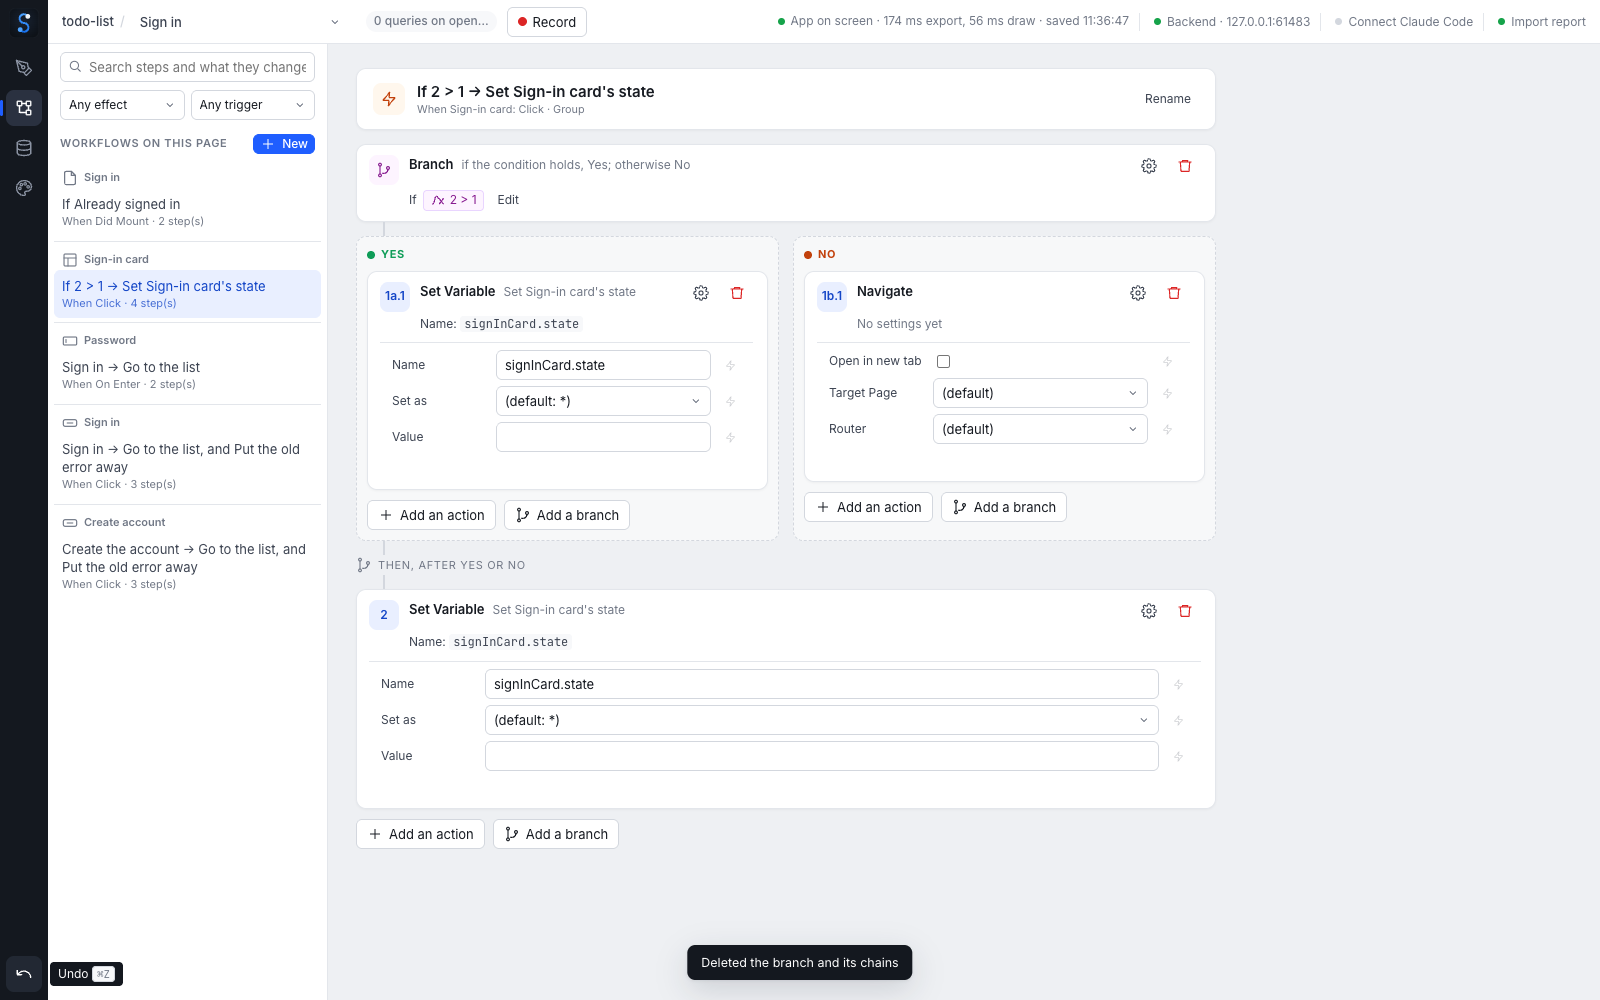
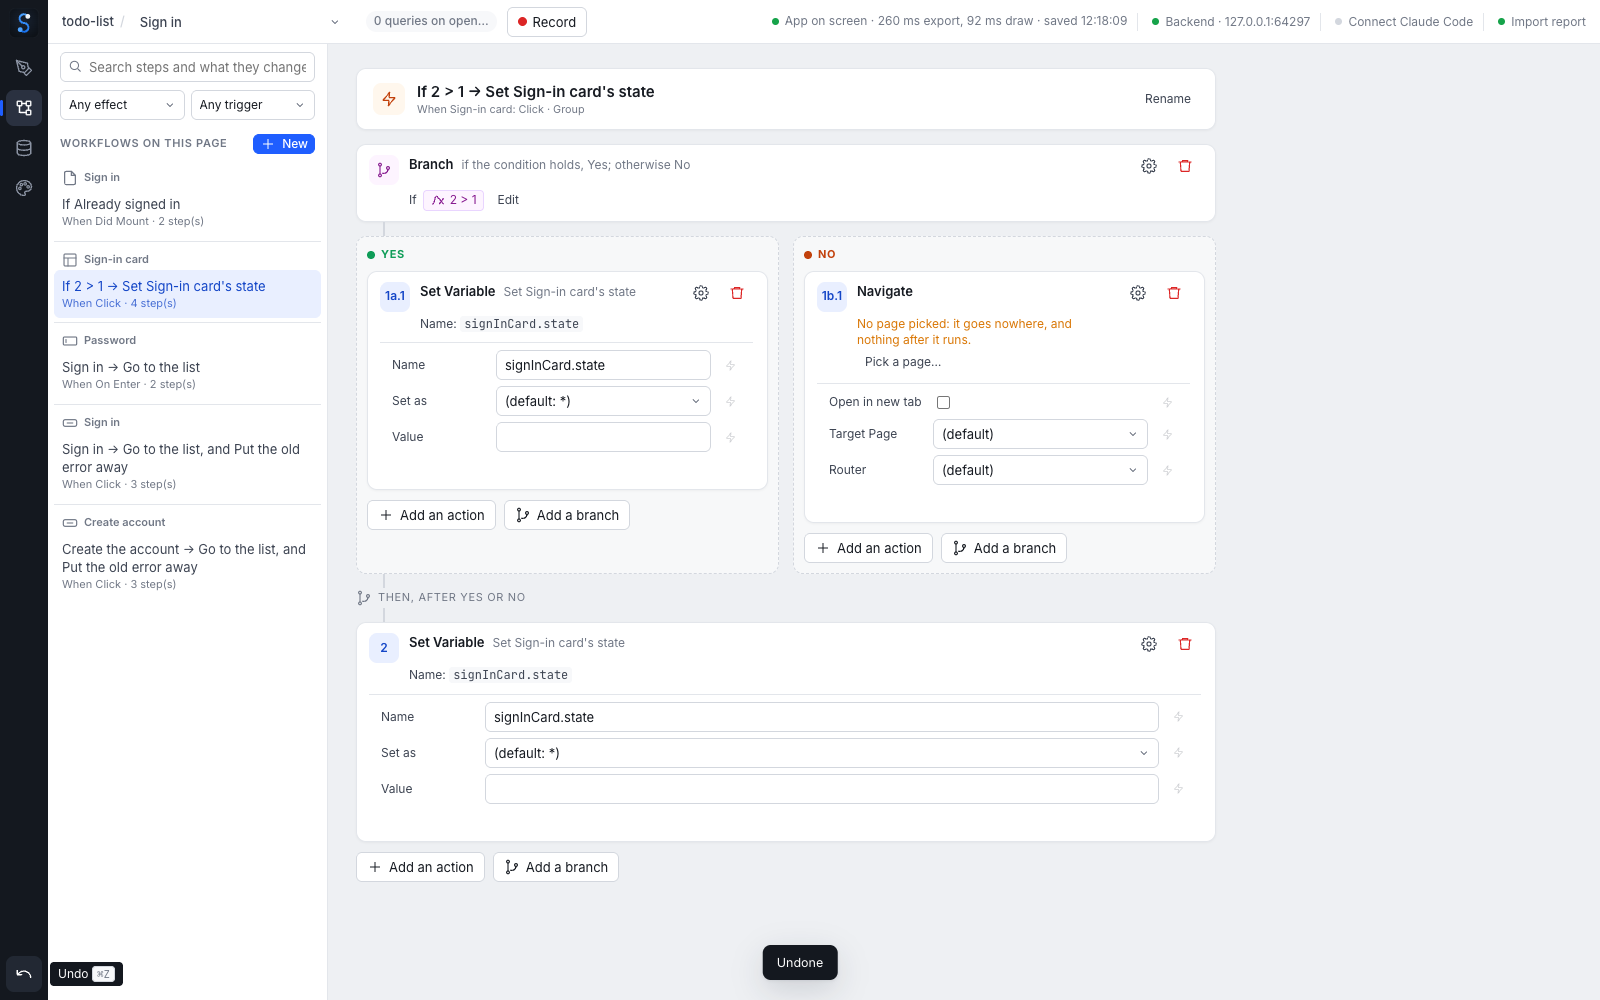
s21: a Go to page with no page says so on its step; Undo says Undone; R5's Toggle per copy and on a page
- The card: "No page picked: it goes nowhere, and nothing after it runs." with Pick a page…, which opens the
  step's settings; picking a page redraws the card. Undo toasts "Undone" instead of leaving the undone
  gesture's toast up. check:editor 191/191 (4 new).
- The importer: a Toggle stores the opposite of the element's shown holder (!shown), in a reusable per copy
  and on a page. The s20 limit "setting a copy's state to the value it already holds does nothing" was wrong
  (Set Variable writes with forceChange); now gated in the running app. check:import 94/94 (4 new); the s20
  importer fails the three Toggle checks.

diff --git a/editor/studio.html b/editor/studio.html
@@ -952,6 +952,8 @@ async function undo() {
   readGraph();
   rebuild();
   renderAll();
+  // what was undone may have said something ("Deleted the branch…"): left up, it reads as still true
+  toast('Undone');
 }
 $('undo').onclick = undo;
 
@@ -1015,8 +1017,9 @@ function edits(componentKey, list, { rebuildApp = true, redraw } = {}) {
   persist();
   if (componentKey === pageKey) readGraph();
   if (rebuildApp) rebuild();
-  // an edit that changes which fields or steps exist redraws the panel; typing into a field does not (it would lose the caret)
-  const structural = redraw ?? list.some((e) => !['set_parameter', 'rename', 'move'].includes(e.edit) || (e.edit === 'set_parameter' && e.name === 'collectionName'));
+  // an edit that changes which fields or steps exist redraws the panel; typing into a field does not (it would lose the caret).
+  // A Go to page's page is picked from a list, and its step says when there is none
+  const structural = redraw ?? list.some((e) => !['set_parameter', 'rename', 'move'].includes(e.edit) || (e.edit === 'set_parameter' && ['collectionName', 'target'].includes(e.name)));
   if (structural) setTimeout(() => { if (tab === 'workflow') renderWorkflow(); else if (tab === 'design') { renderPageData(); renderTree(); renderProps(); } }, 0);
   return ids;
 }
@@ -3501,6 +3504,9 @@ function stepCard(s, n) {
   const ports = editablePorts(node, { wireOnly: true }).filter((p) => !['x', 'y'].includes(p.name) && !(isCond && p.name === 'condition'));
   if (!ports.length) settings.append(h('div', { class: 'hint' }, 'This action has no settings to type; its inputs come from values.'));
   for (const p of ports) settings.append(fieldFor(node, p, params[p.name], wiredIn[p.name]));
+  const openSettings = () => { settings.style.display = ''; openSteps.add(s.id); };
+  // a Go to page with no page never arrives, and RouterNavigate says Done only on arriving: nothing after it runs
+  if (node.type === 'RouterNavigate' && !params.target && !wiredIn.target) lines.unshift(h('span', { class: 'nopage', style: 'color:var(--warn);flex-basis:100%;display:flex;flex-wrap:wrap;gap:2px 8px;align-items:center' }, 'No page picked: it goes nowhere, and nothing after it runs.', h('button', { class: 'quiet tiny', style: 'white-space:nowrap', onclick: openSettings }, 'Pick a page…')));
   const card = h('div', { class: `step${isCond ? ' cond' : ''}` },
     h('div', { class: 'num' }, isCond ? icon('branch') : n),
     h('h3', {}, isCond ? 'Branch' : typeName(node.type), h('span', { title: isCond ? 'If the condition holds, Yes runs; otherwise No' : null }, isCond ? (node.label || 'if the condition holds, Yes; otherwise No') : node.label || '')),

diff --git a/docs/SCOPE.md b/docs/SCOPE.md
@@ -1508,7 +1508,15 @@ click into the shared step; Undo restores it. Mutant (no rejoin read on the card
 fail; making it and running it pass either way, the wires being the same. `check:app` 46/46, `check:data` 80/80,
 `check:timeline` 46/46. [look/s2-workflow-rejoin.png](look/s2-workflow-rejoin.png).
 Found on the way: a Go to page with no target never says Done in the app (RouterNavigate settles only on arriving),
-so a step after it does not run; the card does not say so. **Not built:** lanes side by side (STU-024) that reach one
+so a step after it does not run; the card does not say so. **Said on the card (s21):** a Go to page with no page,
+typed or wired, says on its step *"No page picked: it goes nowhere, and nothing after it runs."* with *Pick a page…*,
+which opens its settings; picking one redraws the card (a page is picked from a list, so the redraw takes no caret) and
+the line goes. Undo now says *Undone*: before, the undone gesture's own toast ("Deleted the branch and its chains")
+stayed up for its 3.4 s after the branch was back. `check:editor` 191/191 (4 new, on "Check the card": the line on No's
+new Go to page; *Undone* after the R4 Undo; *Pick a page…* → a page written as its target and the line gone; Undo
+brings both back). Run before the redraw was added: 190/191, the target on disk and the line still drawn.
+[look/s2-workflow-branch.png](look/s2-workflow-branch.png), [look/s2-workflow-rejoin.png](look/s2-workflow-rejoin.png).
+**Not built:** lanes side by side (STU-024) that reach one
 step are not drawn as a rejoin; a rejoin reached only inside a nested branch on one side is drawn as before (the shared
 step in the first column it is met in).
 
@@ -1558,6 +1566,18 @@ before) 81/90, the old app showing every mood empty, a Hide hiding the group in 
 doesn't have a port named this". **Limits:** a page setting a copy's state to the value its Variable already holds
 does nothing (the wire carries changes); a state on an element inside a reusable read from the page, and a state in a
 reusable nested in a reusable converted before it, are reported rather than wired; Toggle is still "set to shown".
+**s21 on those limits.** The first was **wrong**: Set Variable writes with `forceChange` (`setvariablenode.ts`: "always
+trigger Variable nodes to send the value on their output, even if it's the same value twice"), so the copy's input gets
+the repeat. Gated now in the running app: Card two sets its own mood ("clicked"), the page sets it again to "from page",
+which its Variable already holds, and Card two reads "from page"; this passes on the s20 importer too. **Toggle,
+built:** a Toggle stores the opposite of what the element's shown holder says now (an Expression `!shown`, read when the
+step stores): in a reusable from the copy's record into Set Component Object Properties, on a page from the element's
+Variable into Set Variable; an element in another component is still "set to shown", reported. `check:import` 94/94
+(4 new: the wiring on disk; the Toggle-again run above; in the running app a copy's Toggle shows its own hidden group
+and hides it again while the other copy's stays hidden, and the page's Toggle hides and shows its own group). Mutant
+(the s20 importer): the three Toggle checks fail (the copy's group never shows, the page's never comes back). Still
+reported, not wired: a state on an element inside a reusable read from the page, and a state in a reusable nested in
+one converted before it.
 
 **Taken.** R6 (Richard, 2026-10-23): **one file per option set**, which is how they are built: each set is its own
 logic component under `Option sets/`, one Static Data node each.
